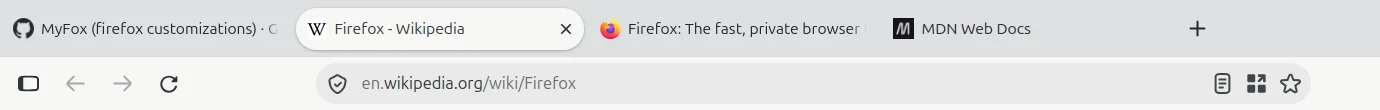
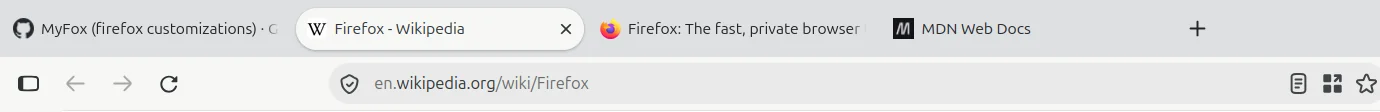
Reshoot the tab strip shots with the same settings in both languages

diff --git a/public/index.html b/public/index.html
@@ -126,7 +126,7 @@
         <div class="shots col">
         <figure class="shot">
           <figcaption><span lang="ru">До</span><span lang="en">Before</span></figcaption>
-          <img data-part="tabs" data-k="a" src="img/parts/tabs-ru-light-a.webp" width="1380" height="127" alt="" loading="lazy">
+          <img data-part="tabs" data-k="a" src="img/parts/tabs-ru-light-a.webp" width="1380" height="112" alt="" loading="lazy">
         </figure>
         <figure class="shot">
           <figcaption><span lang="ru">После</span><span lang="en">After</span></figcaption>
